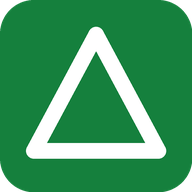
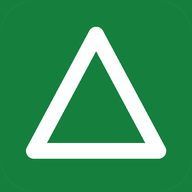
fix: rimuovi trasparenza icone PWA e ripristina manifest.json
Gli angoli trasparenti degli apple-touch-icon venivano riempiti di nero
da iOS sulla home, facendo apparire l'icona nera invece che verde.
Le icone sono ora appiattite su sfondo verde opaco, così iOS applica
correttamente la propria maschera ad angoli arrotondati.

Inoltre manifest.json conteneva per errore il codice del service worker:
ripristinato come manifest PWA valido con icone, nome, theme_color.

diff --git a/index.html b/index.html
@@ -3,12 +3,14 @@
   <head>
     <meta charset="UTF-8" />
     <meta name="viewport" content="width=device-width, initial-scale=1.0, maximum-scale=1.0, user-scalable=no, viewport-fit=cover" />
-    <meta name="theme-color" content="#1B6B1B" />
+    <meta name="theme-color" content="#15803D" />
     <meta name="apple-mobile-web-app-capable" content="yes" />
     <meta name="apple-mobile-web-app-status-bar-style" content="black-translucent" />
     <meta name="apple-mobile-web-app-title" content="DR Report" />
     <link rel="manifest" href="/manifest.json" />
     <link rel="apple-touch-icon" href="/icon-192.png" />
+    <link rel="apple-touch-icon" sizes="192x192" href="/icon-192.png" />
+    <link rel="apple-touch-icon" sizes="512x512" href="/icon-512.png" />
     <title>DELTAgroup REPORT</title>
     <style>
       * { margin: 0; padding: 0; box-sizing: border-box; -webkit-tap-highlight-color: transparent; }
